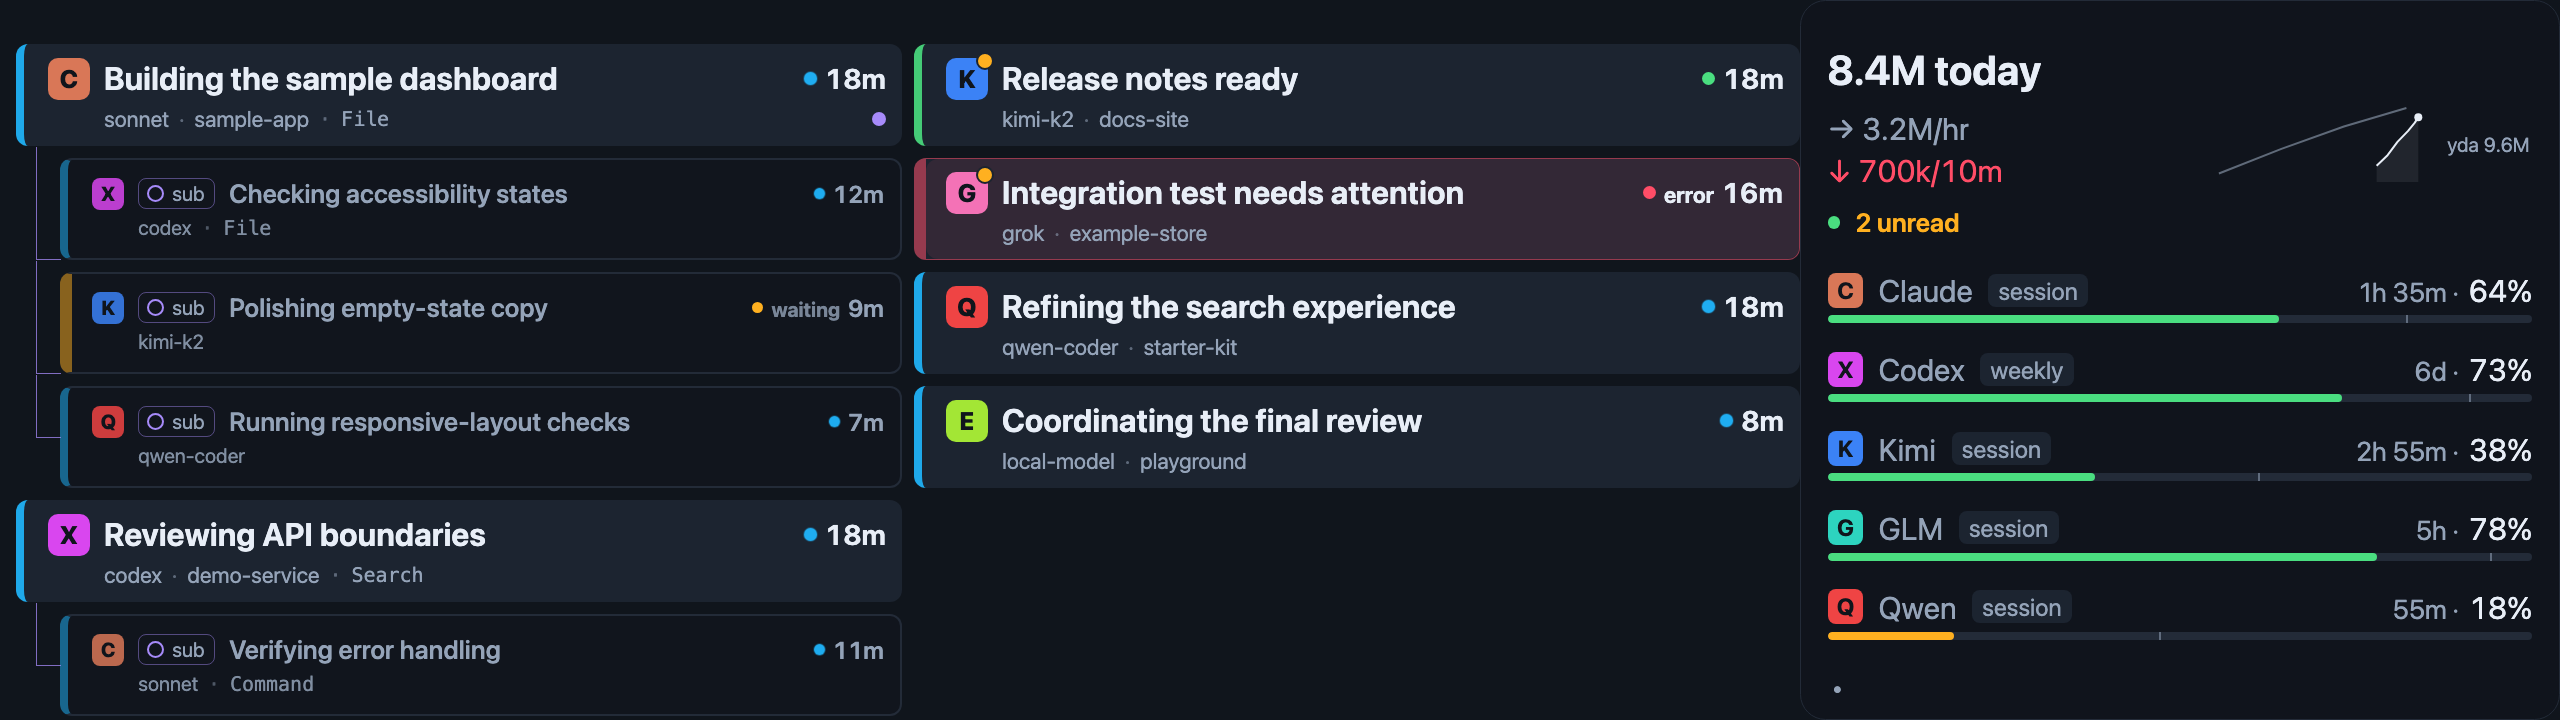
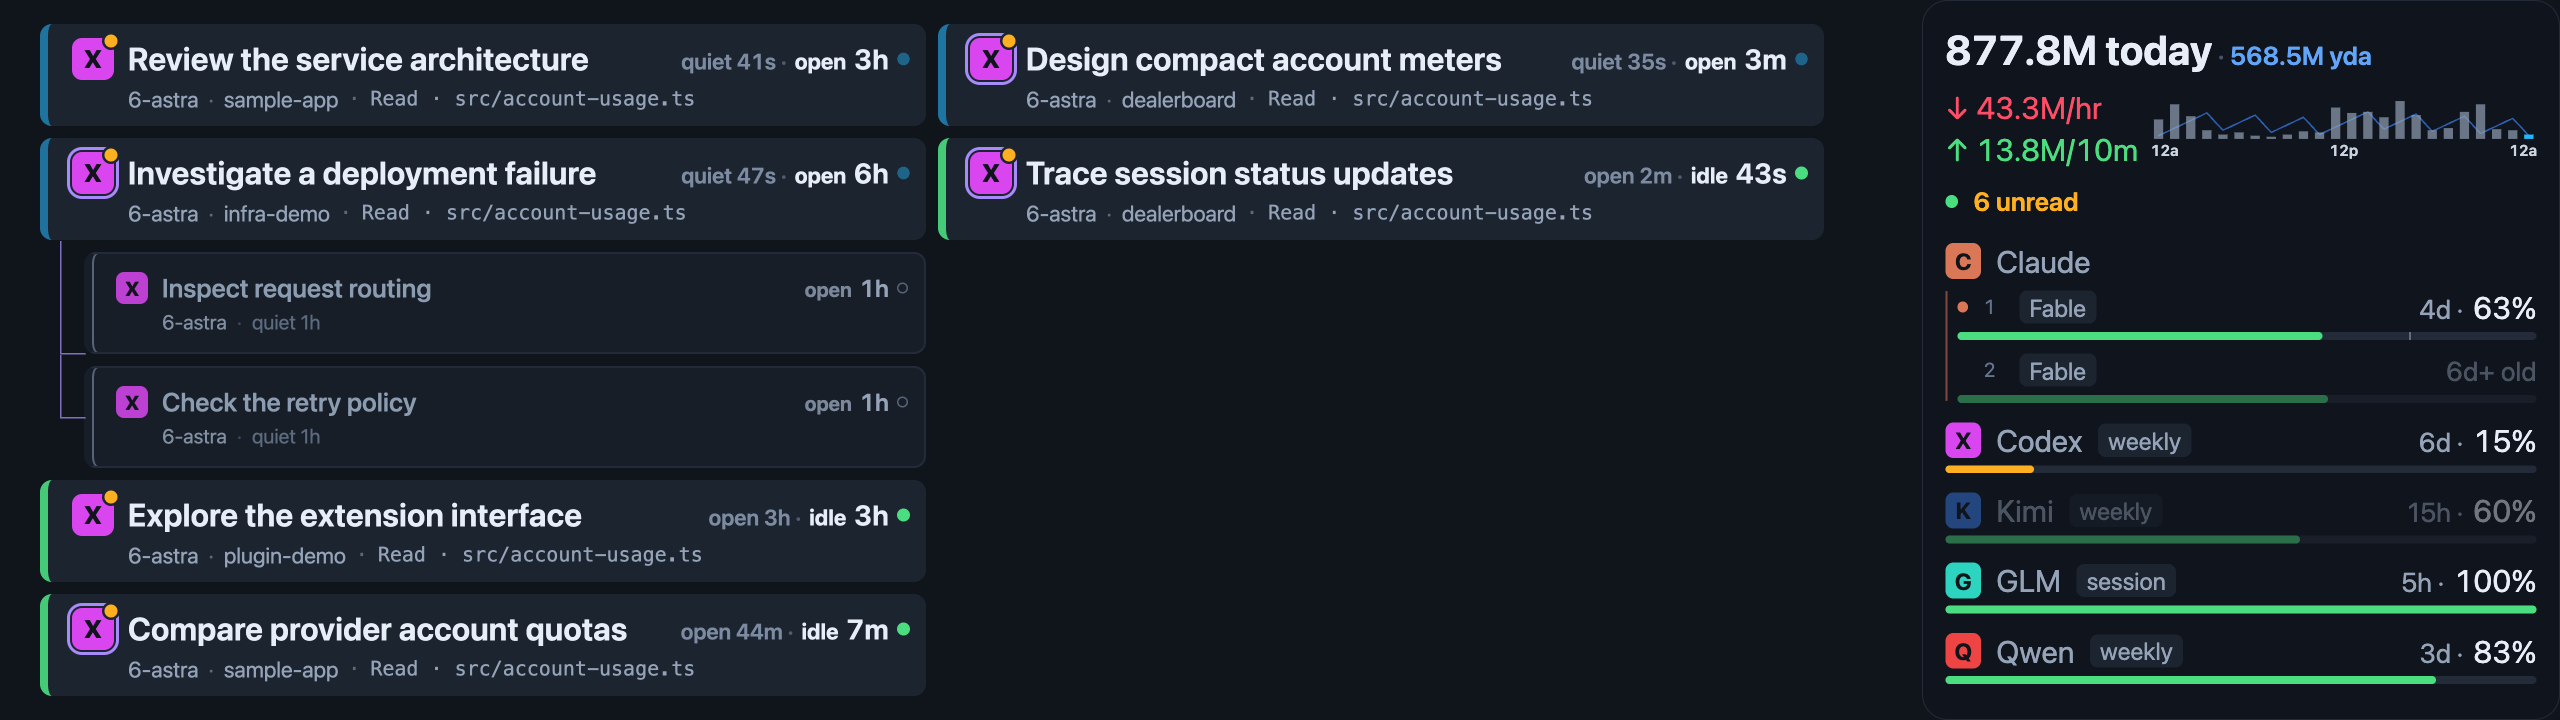
Explore compact multi-account quota layouts
Drew requested high-fidelity Superpowers visual brainstorming for multiple Codex accounts and a smaller Claude account display. Preserve three interactive treatments: compact rows, paired meters, and active plus reserve. Include healthy, sign-in-required, and four-account scenarios, account detail previews, and the current rail comparison at native strip proportions.

Replace the stale README screenshot with a 2560x720 capture produced by the current card and rail renderers using synthetic sessions and usage. Use that same image as the board context for the mockups. This commit changes design artifacts only; account collection and application behavior are unchanged.

Validation: visually inspected the current-renderer screenshot and the mockup page; checked all scenarios for rail and page overflow, account dialogs, design selection, and baseline comparison in the browser. Browser reported zero console errors; git diff --check passed.

diff --git a/docs/superpowers/mockups/2026-09-08-multi-account-rail.html b/docs/superpowers/mockups/2026-09-08-multi-account-rail.html
@@ -1,0 +1,52 @@
+<!DOCTYPE html>
+<html lang="en">
+<head>
+<meta charset="utf-8"><meta name="viewport" content="width=device-width, initial-scale=1">
+<title>Dealerboard · Account rail studies</title>
+<style>
+*{box-sizing:border-box}body{margin:0;background:#090d13;color:#e8eef7;font-family:-apple-system,BlinkMacSystemFont,"Segoe UI",sans-serif}button{font:inherit;color:inherit;cursor:pointer}button:focus-visible{outline:2px solid #94c9ff;outline-offset:4px}.page{max-width:1420px;padding:38px 36px 60px;margin:auto}.eyebrow{font-size:11px;letter-spacing:.16em;color:#8593a7;text-transform:uppercase}.intro{display:flex;justify-content:space-between;gap:40px;align-items:end;margin:14px 0 26px}h1{font-size:32px;letter-spacing:-.04em;margin:0 0 10px;font-weight:600}p{color:#95a3b7;line-height:1.5;margin:0;font-size:14px}.legend{font-size:12px;color:#8f9db0;text-align:right;line-height:1.8;white-space:nowrap}.toolbar{display:flex;align-items:center;justify-content:space-between;gap:20px;border-top:1px solid #253040;border-bottom:1px solid #253040;padding:15px 0;margin-bottom:26px}.segmented{display:flex;gap:4px;flex-wrap:wrap}.segmented button,.zoom{border:1px solid transparent;border-radius:7px;background:transparent;padding:8px 12px;color:#95a3b7;font-size:12px}.segmented button.active,.zoom{background:#1c2635;border-color:#334158;color:#e8eef7}.toolbar p{font-size:12px}.studies{display:grid;grid-template-columns:repeat(3,minmax(0,1fr));gap:22px}.study{min-width:0;border:1px solid #263140;background:#0e141e;border-radius:14px;overflow:hidden}.study.selected{border-color:#7798c2;box-shadow:0 0 0 1px #7798c244}.study-top{height:83px;padding:17px 19px}.study-top h2{font-size:16px;font-weight:550;margin:0 0 6px;letter-spacing:-.01em}.study-top p{font-size:12px}.letter{color:#8394ac;margin-right:10px;font-size:12px}.crop{position:relative;overflow:hidden;border-top:1px solid #232d3b;border-bottom:1px solid #232d3b;background:#10141c}.crop>.rail{position:absolute;transform-origin:top left}.choose{width:calc(100% - 32px);margin:16px;border:1px solid #344259;border-radius:7px;background:transparent;padding:10px;font-size:12px}.selected .choose{background:#dbe8fa;color:#142033;border-color:#dbe8fa}.context-head{display:flex;align-items:center;justify-content:space-between;margin:34px 0 14px}.context-head h2{font-size:17px;margin:0 0 5px;font-weight:550}.context-head p{font-size:12px}.context{overflow:auto;border:1px solid #2a3545;border-radius:12px;background:#10151c}.strip-wrap{position:relative;overflow:hidden}.strip{position:absolute;width:2560px;height:720px;display:grid;grid-template-columns:1922px 638px;transform-origin:top left;background:#10151c}.board{display:grid;grid-template-columns:repeat(2,886px);grid-template-rows:repeat(6,102px);gap:12px;padding:24px 0 0 40px;position:relative}.agent{height:102px;border-radius:14px;background:#1d2632;border:1px solid #283447;border-left:7px solid #20b8ff;padding:13px 20px;display:flex;gap:16px;align-items:start;min-width:0}.agent.quiet{background:#141b25;border-left-color:#375268;opacity:.65}.agent.done{border-left-color:#4ade80}.agent.wait{background:#2b2430;border-left-color:#ffb020}.agent .chip{width:42px;height:42px;font-size:29px;flex-shrink:0}.agent-title{font-size:29px;white-space:nowrap;color:#e8eef7;font-weight:600;letter-spacing:-.5px}.agent-sub{font-size:22px;color:#8e9db3;margin-top:7px}.agent-time{margin-left:auto;white-space:nowrap;font-size:23px;color:#afc0d5;padding-top:6px}.rail{width:638px;height:720px;background:#10141c;border:1px solid #232b38;border-radius:24px;padding:24px 24px 16px;display:flex;flex-direction:column;color:#94a3b8;font-variant-numeric:tabular-nums;flex-shrink:0}.tokens{font-size:40px;font-weight:650;color:#e8eef7;letter-spacing:-1px;white-space:nowrap}.yesterday{font-size:22px;color:#60a5fa;letter-spacing:0;font-weight:500;margin-left:10px}.token-flow{display:flex;align-items:center;gap:16px;height:90px;margin-top:8px}.rates{width:190px;flex-shrink:0;font-size:28px;line-height:1.55}.rates span{display:block}.rates .down{color:#ff4d67}.chart{width:100%;height:84px}.unread{display:flex;align-items:center;gap:12px;font-size:25px;color:#ffb020;margin-top:10px;margin-bottom:9px}.status-dot{width:12px;height:12px;border-radius:50%;background:#4ade80;display:inline-block;flex-shrink:0}.zone{flex:1;display:flex;flex-direction:column;justify-content:space-evenly;gap:8px;min-height:0}.provider{--brand:#d97757;min-width:0}.provider.codex{--brand:#d946ef}.provider.kimi{--brand:#3b82f6}.provider.glm{--brand:#2dd4bf}.provider.qwen{--brand:#ef4444}.provider-head{display:flex;align-items:center;gap:12px;font-size:28px;line-height:34px}.chip{background:var(--brand,#d97757);display:inline-flex;align-items:center;justify-content:center;color:#10151c;width:34px;height:34px;border-radius:7px;font-size:23px;font-weight:700}.count{font-size:18px;color:#5f718a;margin-left:1px}.provider-name{font-weight:500}.remaining{margin-left:auto;font-size:24px;color:#e8eef7;white-space:nowrap}.reset{font-size:20px;color:#8090a7;margin-left:auto}.window{font-size:19px;color:#91a0b6;background:#1c2430;border-radius:5px;padding:1px 8px}.bar{height:7px;border-radius:6px;background:#263140;position:relative;overflow:hidden}.fill{height:100%;border-radius:6px;background:#4ade80}.tick{position:absolute;left:88%;top:0;bottom:0;width:2px;background:#a5b2c575}.single .bar{margin-top:9px}.account{border:0;background:transparent;padding:0;color:inherit;text-align:left;display:flex;align-items:center;gap:10px;width:100%;height:36px;border-radius:6px}.account:hover{background:#1a2432}.slot{display:flex;gap:6px;align-items:center;min-width:39px;color:#8798b1;font-size:20px}.active-dot{height:7px;width:7px;display:inline-block;border-radius:50%;background:transparent}.active-dot.on{background:var(--brand)}.account .bar{flex:1}.account .pct{width:54px;text-align:right;color:#e8eef7;font-size:23px}.error-text{color:#d9a969;font-size:20px;white-space:nowrap}.account.error .bar{background:repeating-linear-gradient(135deg,#29313c 0px,#29313c 5px,#161f2b 5px,#161f2b 10px)}.account.error .pct{color:#d9a969}.accounts{margin-top:5px}.paired{display:grid;grid-template-columns:repeat(2,minmax(0,1fr));gap:4px 20px;margin-top:8px}.pair{display:block;height:auto;padding:0 0 3px}.pair-top{display:flex;align-items:center;gap:7px;margin-bottom:7px}.pair .pct{margin-left:auto}.pair .bar{width:100%}.pair .error-text{font-size:19px;margin-left:auto}.featured{margin-top:8px}.featured .account{height:34px}.summary-foot{display:flex;align-items:center;gap:12px;margin-top:6px;font-size:18px;color:#71839c}.secondary-chip{border:0;background:#1b2430;padding:5px 9px;border-radius:6px;font-size:18px;color:#a9b8cc}.secondary-chip.error{color:#d9a969}.summary-foot .muted{margin-left:auto}.four .account{height:30px}.four .provider-head{font-size:26px;line-height:30px}.four .chip{height:30px;width:30px}.four .zone{gap:5px}.four .paired{gap:6px 20px}.footnote{font-size:12px;color:#697a92;margin-top:16px}.detail-backdrop{position:fixed;inset:0;background:#05080dbd;display:none;align-items:center;justify-content:center;z-index:20;padding:24px;backdrop-filter:blur(8px)}.detail-backdrop.open{display:flex}.detail{max-width:480px;width:100%;background:#141d29;border:1px solid #39465d;border-radius:18px;padding:28px;box-shadow:0 25px 90px #0008}.detail-top{display:flex;align-items:center;justify-content:space-between;margin-bottom:26px}.detail h2{font-size:23px;margin:0;font-weight:550}.close{background:#232e40;border:0;border-radius:50%;font-size:20px;width:32px;height:32px}.detail .account-status{font-size:12px;color:#8fa2bf;margin-top:7px}.detail .detail-window{margin-top:24px}.detail-window label{display:flex;justify-content:space-between;font-size:14px;margin-bottom:10px;color:#c5d3e5}.detail-window p{font-size:12px;margin-top:9px}.notice{background:#4a36252e;border:1px solid #7f593c70;border-radius:9px;padding:16px;color:#dfb788}.notice strong{font-size:14px;display:block;margin-bottom:5px}.notice p{font-size:13px;color:#bca48a}.detail .last-seen{font-size:12px;margin-top:20px;color:#8393aa}.detail-note{border-top:1px solid #2c384a;padding-top:18px;margin-top:24px;font-size:11px;color:#7e91ad}@media(max-width:900px){.page{padding:24px 18px}.studies{grid-template-columns:1fr}.crop{max-width:550px;margin:auto}.legend{display:none}.intro{display:block}.toolbar{align-items:start;flex-direction:column}.study-top{height:auto}.context-head{gap:20px}h1{font-size:27px}}
+</style>
+</head>
+<body>
+<main class="page">
+<div class="eyebrow">Dealerboard / visual brainstorming / 01</div>
+<div class="intro"><div><h1>More accounts. Less rail.</h1><p>Three ways to keep account headroom readable on the strip. Choose a direction, then try its details.</p></div><div class="legend">638 × 720 rail · scaled evenly<br>Illustrative values · percentages show remaining quota</div></div>
+<div class="toolbar"><div class="segmented" aria-label="Account scenario"><button class="active" data-scenario="error">Needs sign-in</button><button data-scenario="healthy">Both healthy</button><button data-scenario="four">Four per provider</button></div><p>Tap an account to preview its details. The dot marks the active account.</p></div>
+<div class="studies">
+<article class="study selected" data-study="rows"><div class="study-top"><h2><span class="letter">A</span>Compact rows</h2><p>One line per account. Every balance stays visible.</p></div><div class="crop" id="rows"></div><button class="choose" data-choice="compact-rows" data-select="rows">Selected · Compact rows</button></article>
+<article class="study" data-study="paired"><div class="study-top"><h2><span class="letter">B</span>Paired meters</h2><p>Accounts share a row. More vertical breathing room.</p></div><div class="crop" id="paired"></div><button class="choose" data-choice="paired-meters" data-select="paired">Choose paired meters</button></article>
+<article class="study" data-study="summary"><div class="study-top"><h2><span class="letter">C</span>Active + reserve</h2><p>Active account leads. Other balances become chips.</p></div><div class="crop" id="summary"></div><button class="choose" data-choice="active-reserve" data-select="summary">Choose active + reserve</button></article>
+</div>
+<div class="context-head"><div><h2 id="context-title">Compact rows, on the strip</h2><p>Current renderer, with synthetic sessions. Only the rail treatment changes.</p></div><div><button class="zoom" id="baseline">Compare current rail</button> <button class="zoom" id="zoom">View at native size</button></div></div>
+<div class="context"><div class="strip-wrap"><div class="strip"><div class="board" id="board"></div><div id="context-rail"></div></div></div></div>
+<p class="footnote">Provider colors and board geometry follow Dealerboard. These are interactive mockups; no account or authentication changes are performed.</p>
+</main>
+<div class="detail-backdrop" id="backdrop"><section class="detail" role="dialog" aria-modal="true" aria-labelledby="detail-title" id="detail"></section></div>
+<script>
+const names={rows:'Compact rows',paired:'Paired meters',summary:'Active + reserve'};
+let scenario='error',selected='rows',native=false,lastFocus=null,baseline=false;
+const colors={claude:'#d97757',codex:'#d946ef',kimi:'#3b82f6',glm:'#2dd4bf',qwen:'#ef4444'};
+const titles={claude:'Claude',codex:'Codex',kimi:'Kimi',glm:'GLM',qwen:'Qwen'};
+function accounts(provider){const values=provider==='claude'?[78,43,62,91]:[16,84,51,95];return values.slice(0,scenario==='four'?4:2).map((pct,i)=>({provider,slot:i+1,pct,active:i===0,error:provider==='claude'&&i===1&&scenario==='error'}))}
+function bar(pct,error=false){return `<div class="bar"><div class="fill" style="width:${error?0:pct}%;background:${pct<25?'#ffb020':'#4ade80'}"></div>${error?'':'<span class="tick"></span>'}</div>`}
+function slot(a){return `<span class="slot"><i class="active-dot ${a.active?'on':''}"></i>${a.slot}</span>`}
+function head(provider,count=''){return `<div class="provider-head"><span class="chip">${provider==='codex'?'X':provider==='glm'?'G':titles[provider][0]}</span><span class="provider-name">${titles[provider]}</span>${count?`<span class="count">${count} accounts</span>`:''}</div>`}
+function account(a,paired=false){return `<button class="account ${paired?'pair ':''}${a.error?'error':''}" data-provider="${a.provider}" data-slot="${a.slot}" aria-label="${titles[a.provider]} account ${a.slot}${a.active?', active':''}, ${a.error?'sign in again':a.pct+' percent remaining'}">${paired?`<div class="pair-top">${slot(a)}${a.error?'<span class="error-text">Sign in ↗</span>':`<span class="pct">${a.pct}%</span>`}</div>${bar(a.pct,a.error)}`:`${slot(a)}${bar(a.pct,a.error)}${a.error?'<span class="error-text">Sign in ↗</span>':`<span class="pct">${a.pct}%</span>`}`}</button>`}
+function provider(provider,mode){const list=accounts(provider);let inner;if(mode==='summary'){inner=`<div class="featured">${account(list[0])}</div><div class="summary-foot">${list.slice(1).map(a=>`<button class="secondary-chip ${a.error?'error':''}" data-provider="${provider}" data-slot="${a.slot}">${a.slot} · ${a.error?'Sign in ↗':a.pct+'%'}</button>`).join('')}<span class="muted">${provider==='claude'?'weekly · 4d':'weekly · 2d'}</span></div>`}else inner=`<div class="${mode==='paired'?'paired':'accounts'}">${list.map(a=>account(a,mode==='paired')).join('')}</div>`;return `<section class="provider ${provider}">${head(provider,list.length)}${inner}</section>`}
+function single(provider,pct,reset){return `<section class="provider single ${provider}"><div class="provider-head"><span class="chip">${provider==='glm'?'G':titles[provider][0]}</span><span class="provider-name">${titles[provider]}</span><span class="window">session</span><span class="reset">${reset}</span><span class="remaining">${pct}%</span></div>${bar(pct)}</section>`}
+function chart(){const bars=[9,15,22,14,31,47,38,19,9,18,30,51,40,33,19,11,15,26,45,57,34,24,17,10];return `<svg class="chart" viewBox="0 0 350 84" aria-label="Illustrative hourly token activity"><polyline points="0,63 30,55 60,35 90,39 120,64 150,43 180,26 210,48 240,35 270,16 300,37 335,39" fill="none" stroke="#3b82f6" stroke-width="2" opacity=".6"/>${bars.map((h,i)=>`<rect x="${i*14}" y="${64-h}" width="8" height="${h}" fill="${i===23?'#20b8ff':'#94a3b8'}" opacity=".65"/>`).join('')}<g font-size="15" fill="#94a3b8"><text x="0" y="82">12a</text><text x="150" y="82">12p</text><text x="320" y="82">12a</text></g></svg>`}
+function rail(mode){return `<aside class="rail ${scenario==='four'?'four':''}"><div class="tokens">877.8M today<span class="yesterday">· 568.5M yda</span></div><div class="token-flow"><div class="rates"><span>↓ 43.3M/hr</span><span style="color:#4ade80">↑ 13.8M/10m</span></div>${chart()}</div><div class="unread"><i class="status-dot"></i>6 unread</div><div class="zone">${provider('claude',mode)}${provider('codex',mode)}${single('kimi',38,'2h 55m')}${single('glm',78,'5h')}${single('qwen',18,'55m')}</div></aside>`}
+function render(){for(const mode of Object.keys(names))document.getElementById(mode).innerHTML=rail(mode);document.getElementById('context-rail').innerHTML=baseline?`<div style="width:638px;height:720px;background:url(${referenceUrl}) -1922px 0 / 2560px 720px no-repeat" aria-label="Current rail from the application renderer"></div>`:rail(selected);document.getElementById('context-title').textContent=baseline?'Current rail, on the strip':names[selected]+', on the strip';fit()}
+function fit(){document.querySelectorAll('.crop').forEach(el=>{const scale=el.clientWidth/638;el.style.height=(720*scale)+'px';el.firstElementChild.style.transform=`scale(${scale})`});const width=document.querySelector('.context').clientWidth,scale=native?1:width/2560;document.querySelector('.strip-wrap').style.width=(2560*scale)+'px';document.querySelector('.strip-wrap').style.height=(720*scale)+'px';document.querySelector('.strip').style.transform=`scale(${scale})`}
+const referenceUrl=location.protocol==='file:'?'../../assets/dealerboard-strip.png':'/files/dealerboard-strip.png';
+document.getElementById('board').style.cssText=`background:url(${referenceUrl}) left top / 2560px 720px no-repeat`;
+document.querySelectorAll('[data-scenario]').forEach(button=>button.addEventListener('click',()=>{scenario=button.dataset.scenario;document.querySelectorAll('[data-scenario]').forEach(b=>b.classList.toggle('active',b===button));render()}));
+document.querySelectorAll('[data-select]').forEach(button=>button.addEventListener('click',()=>{selected=button.dataset.select;baseline=false;document.getElementById('baseline').textContent='Compare current rail';document.querySelectorAll('[data-study]').forEach(el=>el.classList.toggle('selected',el.dataset.study===selected));document.querySelectorAll('[data-select]').forEach(b=>b.textContent=(b===button?'Selected · ':'Choose ')+names[b.dataset.select]);if(typeof toggleSelect==='function')toggleSelect(button);render()}));
+document.getElementById('baseline').addEventListener('click',()=>{baseline=!baseline;document.getElementById('baseline').textContent=baseline?'Return to selected design':'Compare current rail';render()});
+document.getElementById('zoom').addEventListener('click',()=>{native=!native;document.getElementById('zoom').textContent=native?'Fit to window':'View at native size';fit()});
+function closeDetail(){document.getElementById('backdrop').classList.remove('open');if(lastFocus)lastFocus.focus()}
+document.addEventListener('click',event=>{const button=event.target.closest('[data-provider][data-slot]');if(!button)return;const a=accounts(button.dataset.provider).find(x=>x.slot===Number(button.dataset.slot));lastFocus=button;document.getElementById('detail').innerHTML=`<div class="detail-top"><div><h2 id="detail-title">${titles[a.provider]} <span style="color:#7789a2">/</span> Account ${a.slot}</h2><div class="account-status">${a.active?'● Active account':'Reserve account'}</div></div><button class="close" aria-label="Close details">×</button></div>${a.error?'<div class="notice"><strong>Sign in again to refresh usage</strong><p>This account’s saved sign-in is no longer valid. Reconnect account 2 in cswap to resume updates.</p></div><p class="last-seen">Last successful reading · September 2<br>Old percentages are hidden because their windows have expired.</p>':`<div class="detail-window"><label>Weekly<span>${a.pct}% remaining</span></label>${bar(a.pct)}<p>Resets in ${a.provider==='claude'?'4 days':'2 days'} · limiting window</p></div><div class="detail-window"><label>Session<span>100% remaining</span></label>${bar(100)}<p>Resets in 3h 20m</p></div><p class="last-seen">Updated 2 minutes ago</p>`}<div class="detail-note">Mockup · account labels, balances, and reset times are illustrative.</div>`;document.getElementById('backdrop').classList.add('open');document.querySelector('.close').addEventListener('click',closeDetail);document.querySelector('.close').focus()});
+document.getElementById('backdrop').addEventListener('click',event=>{if(event.target.id==='backdrop')closeDetail()});document.addEventListener('keydown',event=>{if(!document.getElementById('backdrop').classList.contains('open'))return;if(event.key==='Escape')closeDetail();if(event.key==='Tab'){event.preventDefault();document.querySelector('.close').focus()}});window.addEventListener('resize',fit);render();
+</script>
+</body>
+</html>
